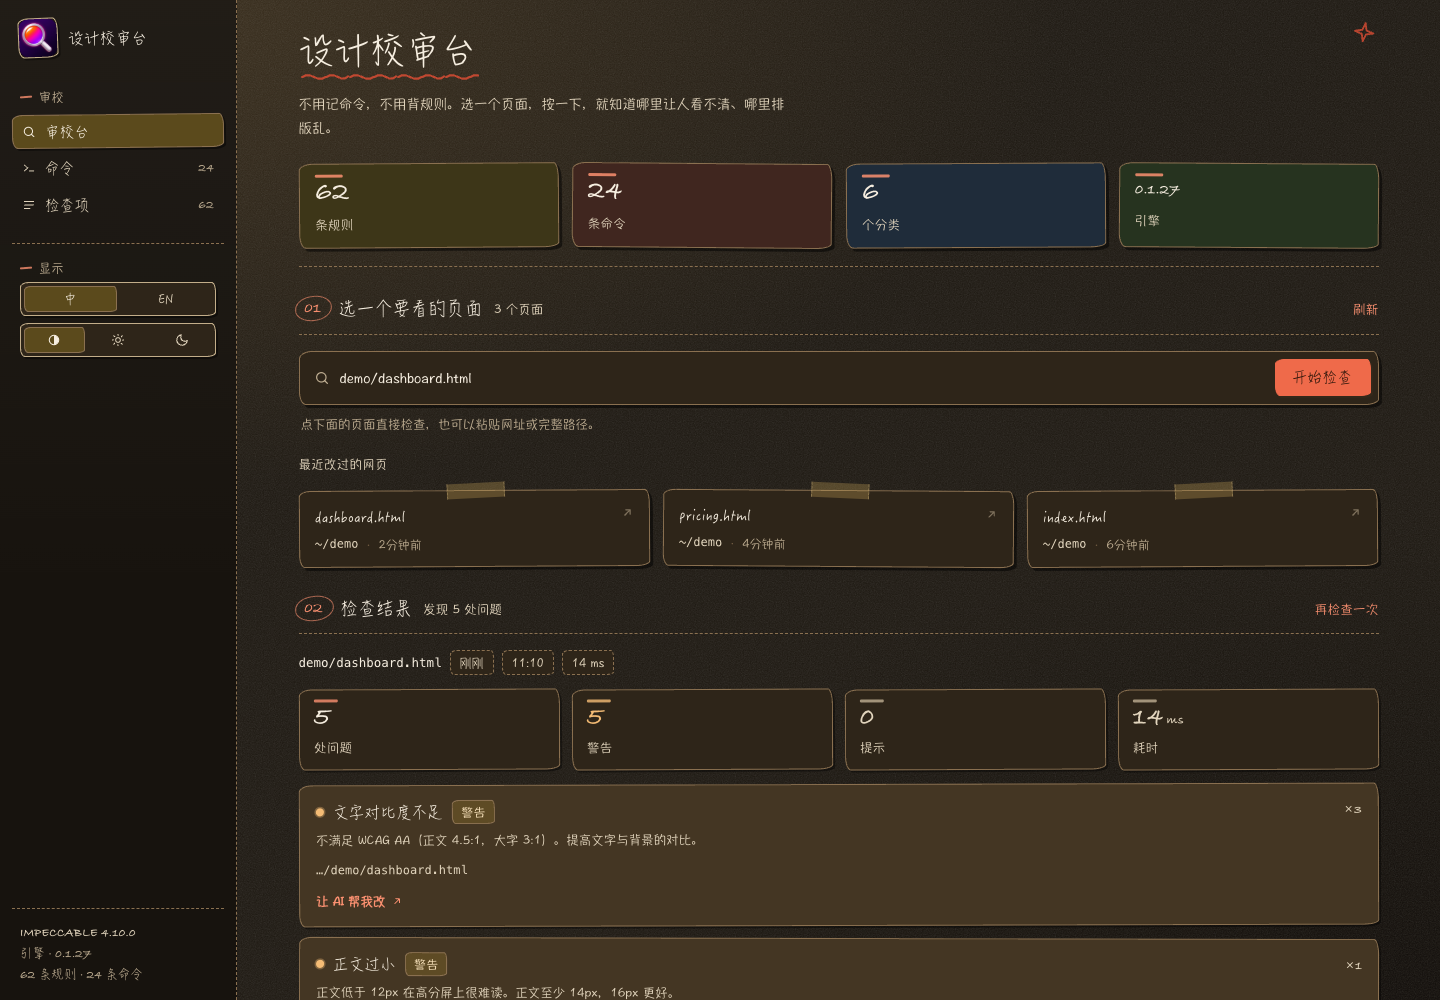
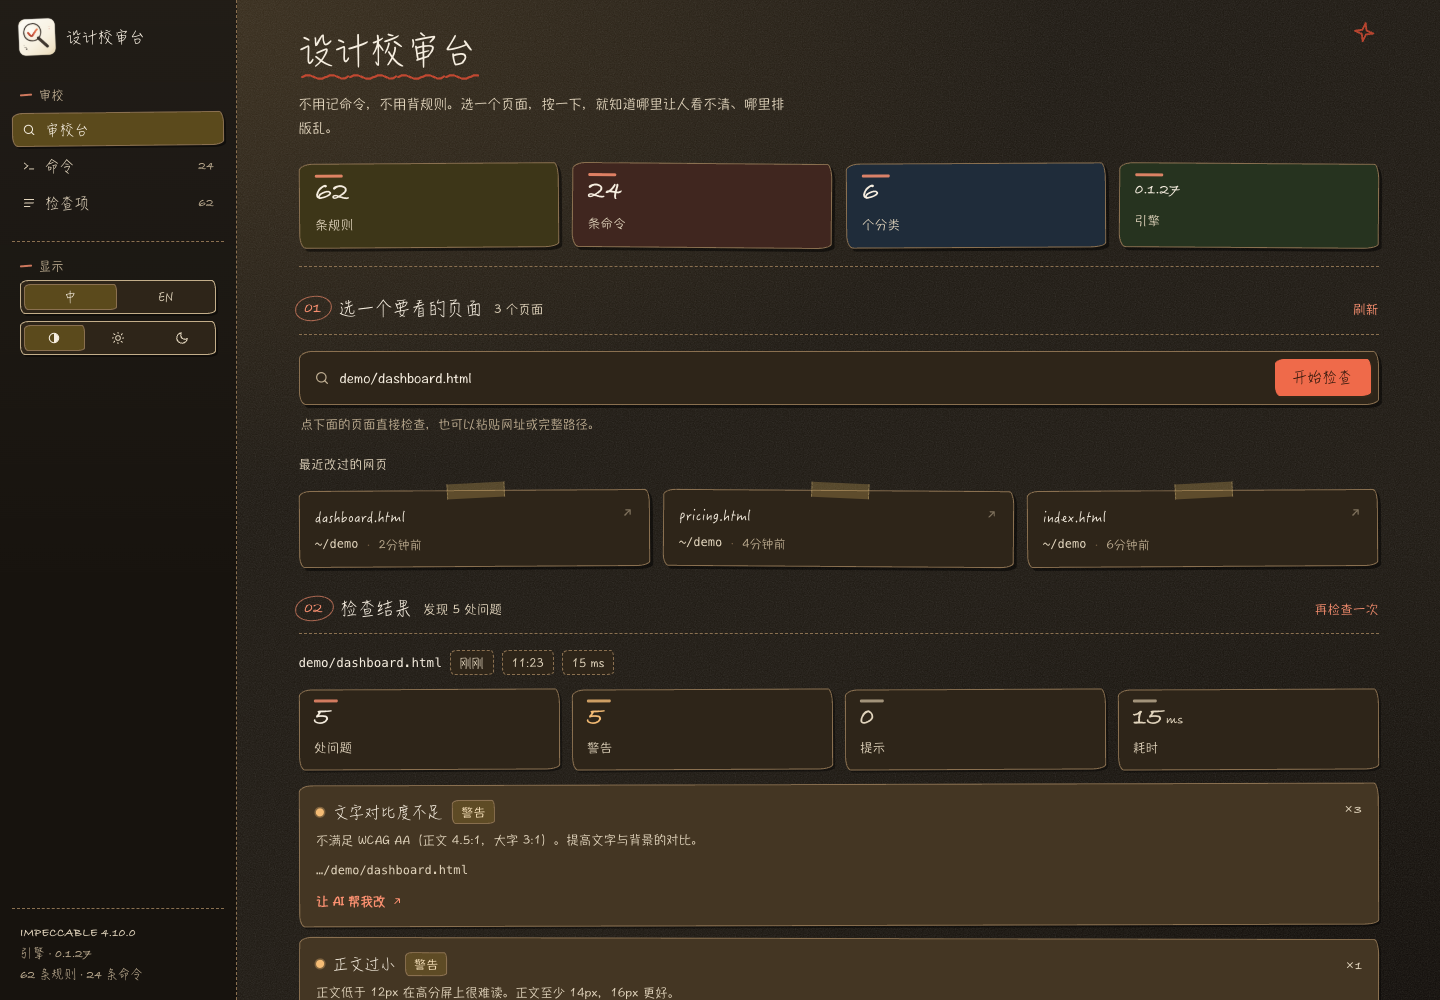
fix: put the hand-drawn mark inside the panel
The rail brandmark still pointed at a cached copy of the old purple icon:
the icon route allowed a 24h cache, so the panel kept showing it after the
redraw. Serve the icon with an ETag and no-cache revalidation, version the
image URL so already-cached sessions refetch, and drop the extra frame the
brandmark drew around the new paper mark. Screenshots recaptured.

diff --git a/lib/client.js b/lib/client.js
@@ -17,6 +17,8 @@ window.__ModuleLoader__.load({
 
     const PANEL = 'impeccable'
     const API = '/impeccable/api'
+    // 图标带一个版本串：路由允许缓存，换图后靠它让旧缓存失效
+    const ICON_URL = '/impeccable/icon.png?v=2'
     const STORAGE_TARGET = 'dsh-impeccable:target'
     const STORAGE_LANG = 'dsh-impeccable:lang'
     const STORAGE_THEME = 'dsh-impeccable:theme'
@@ -406,7 +408,7 @@ window.__ModuleLoader__.load({
       const size = (props && props.size) || 18
       return h('img', {
         className: 'dsh-im-icon',
-        src: '/impeccable/icon.png',
+        src: ICON_URL,
         alt: '',
         width: size,
         height: size,
@@ -1105,7 +1107,7 @@ window.__ModuleLoader__.load({
           h('aside', { className: 'dsh-im-rail' },
             h('div', { className: 'dsh-im-brand' },
               h('span', { className: 'dsh-im-brandmark' },
-                h('img', { src: '/impeccable/icon.png', alt: '', loading: 'lazy' })),
+                h('img', { src: ICON_URL, alt: '', loading: 'lazy' })),
               h('div', { className: 'dsh-im-brandtext' },
                 h('div', { className: 'dsh-im-brandname' }, tr(lang, 'title')))),
             h('div', { className: 'dsh-im-railgroup' }, tr(lang, 'railGroup')),
@@ -1321,11 +1323,8 @@ window.__ModuleLoader__.load({
   flex: none;
   width: 38px;
   height: 38px;
-  border: 1.6px solid var(--im-ink-line);
-  border-radius: 11px 5px 12px 6px / 6px 12px 5px 11px;
+  border-radius: 9px 5px 10px 4px / 5px 10px 4px 9px;
   overflow: hidden;
-  background: var(--im-surface);
-  box-shadow: var(--im-shadow-soft);
   transform: rotate(-2.2deg);
 }
 .dsh-im-brandmark img { display: block; width: 100%; height: 100%; object-fit: cover; }

diff --git a/lib/index.js b/lib/index.js
@@ -10,6 +10,7 @@
 //   ~/.impeccable/bin/<version>/impeccable  自包含二进制（npx impeccable install 首次运行下载）
 // 环境变量 IMPECCABLE_BIN 可以指向一个预装二进制来覆盖发现逻辑。
 import { execFile } from 'node:child_process'
+import { createHash } from 'node:crypto'
 import { existsSync, readFileSync, readdirSync, statSync } from 'node:fs'
 import { homedir } from 'node:os'
 import { dirname, join, resolve } from 'node:path'
@@ -394,10 +395,18 @@ export function apply(ctx) {
             if (req.method !== 'GET' && req.method !== 'HEAD') return sendJson(res, 405, { ok: false, error: 'method not allowed' })
             const bytes = iconBytes()
             if (bytes === null) return notFound(res)
+            // 允许缓存但每次回源校验：换了图标，用户刷新一次就能看到新的
+            const etag = `"${createHash('sha256').update(bytes).digest('hex').slice(0, 20)}"`
+            if (req.headers['if-none-match'] === etag) {
+              res.writeHead(304, { etag, 'cache-control': 'no-cache' })
+              res.end()
+              return
+            }
             res.writeHead(200, {
               'content-type': 'image/png',
               'content-length': String(bytes.length),
-              'cache-control': 'public, max-age=86400',
+              'cache-control': 'no-cache',
+              etag,
             })
             res.end(req.method === 'HEAD' ? undefined : bytes)
             return

diff --git a/docs/marketplace/PR.md b/docs/marketplace/PR.md
@@ -1,6 +1,6 @@
-# 0.6.1 更新（维护市场条目用）
+# 0.6.2 更新（维护市场条目用）
 
-插件市场仓库是 [awesome-dsh-plugin/awesome-dsh-plugin](https://github.com/awesome-dsh-plugin/awesome-dsh-plugin)，条目在 `data/plugins/jsnancy__dsh-impeccable.yml`。这个条目**已经存在**（category `ui`，旧描述只讲 62 条规则和面板），本次只改描述、补一个显式 `icon`，不用新增条目。条目内容一版定稿；0.6.1 是只动 README 的补丁版，不影响这条 PR。
+插件市场仓库是 [awesome-dsh-plugin/awesome-dsh-plugin](https://github.com/awesome-dsh-plugin/awesome-dsh-plugin)，条目在 `data/plugins/jsnancy__dsh-impeccable.yml`。这个条目**已经存在**（category `ui`，旧描述只讲 62 条规则和面板），本次只改描述、补一个显式 `icon`，不用新增条目。条目内容一版定稿；0.6.1 只动 README，0.6.2 把面板里的徽标换成手绘图标并修掉图标缓存，都不影响这条 PR。
 
 - PR：[awesome-dsh-plugin#19226](https://github.com/awesome-dsh-plugin/awesome-dsh-plugin/pull/19226)
 - 可直接应用的补丁：[`awesome-dsh-plugin.patch`](./awesome-dsh-plugin.patch)
@@ -14,7 +14,7 @@
 
 ## 提交顺序
 
-先发 npm（`dsh-impeccable-studio@0.6.1`），再更新条目，最后提 PR —— 市场校验会探测仓库的 `package.json`、`dsh.bundle` 与 npm 版本，版本对不上会多一轮来回。
+先发 npm（`dsh-impeccable-studio@0.6.2`），再更新条目，最后提 PR —— 市场校验会探测仓库的 `package.json`、`dsh.bundle` 与 npm 版本，版本对不上会多一轮来回。
 
 ## 复现（下次更新条目）
 

diff --git a/docs/design/README.md b/docs/design/README.md
@@ -48,6 +48,7 @@ macOS 上只装了翩翩体（Hannotate / Kaiti 会回落到 Songti），所以 
 1. 把 `icon.svg` 放进一个 1024×1024 的空白页，浏览器按 1024 渲染截屏；
 2. 用 Pillow 把截图 LANCZOS 缩到 512，再按 rect(10..502, r=92) 做 4 倍超采样的圆角遮罩 `putalpha`，四角透明；
 3. 覆盖仓库根的 `icon.png`。宿主和插件市场都读这张图。
+4. 把 `lib/client.js` 里 `ICON_URL` 的 `?v=` 加一。宿主的 icon 路由带 ETag 且 `cache-control: no-cache`，浏览器会回源校验；版本串是给已经缓存了旧图的会话留的一道保险。
 
 ## 自查
 
